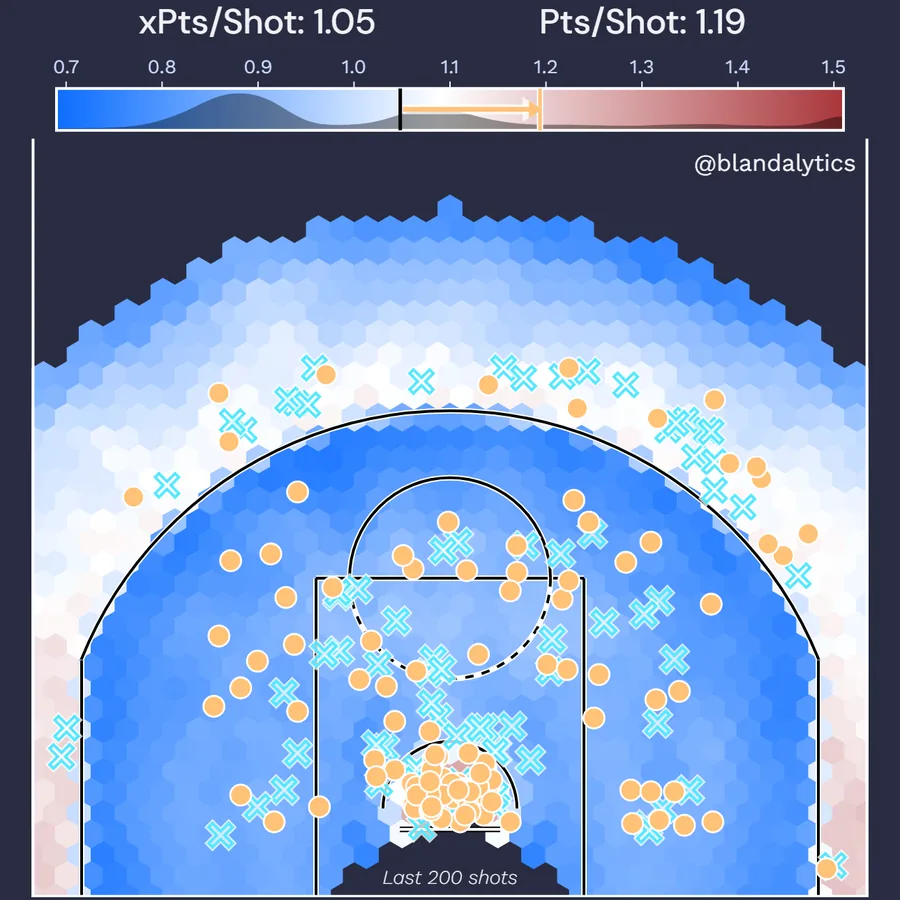
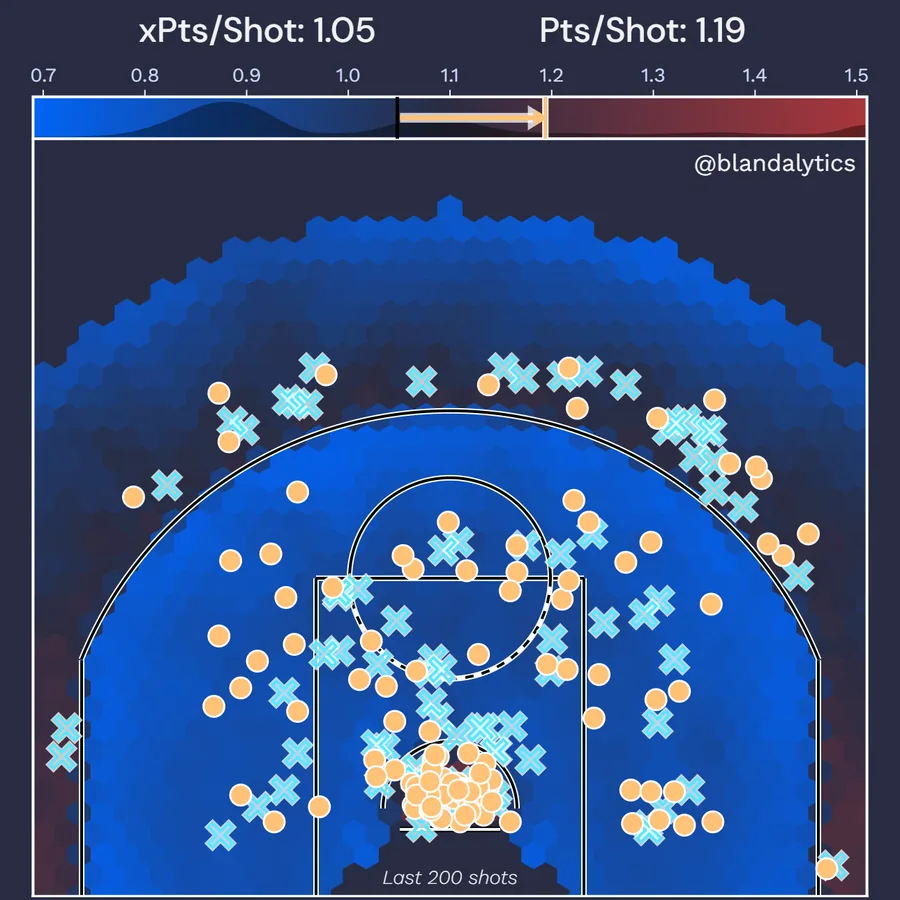
NBA Shot Charts: court scale through the background, colorbar on the sidelines, dark value tags
The xPTS scale runs from the heat cell's blue through the figure's
background (not white) at the league average to its red, on the court
and the colorbar alike. The colorbar spans sideline to sideline and sits
on the court, so its outline runs into the sidelines. The waterfall's
value tags are background-coloured boxes with the text in the bar's
colour. figure.js v2, app.js v2; the homepage tile is regrabbed (?v=2).

diff --git a/nba-shot-charts/figure.js b/nba-shot-charts/figure.js
@@ -1,7 +1,7 @@
 // NBA Shot Charts: the app's scoring summary figure (shot_summary() in nba_shot_chart.py),
 // drawn on a canvas in the figure's own 1400 x 800 layout (the app's 14 x 8 in at 100 dpi),
 // in PLPD colours: amber where a player added points, cyan where they gave some back, the
-// xPTS court in the heat cell's blue-white-red.
+// xPTS court in the heat cell's blue and red, through the figure's background at the league average.
 
 import { SEASON_SHOT_LIMIT, density } from "./model.js?v=1";
 
@@ -14,8 +14,9 @@ const C = {
 const DISPLAY = '"DM Sans", system-ui, sans-serif';
 const TEXT = '"Work Sans", system-ui, sans-serif';
 
-// PLPD heat cell, coldest to hottest, read continuously over the app's CenteredNorm(1.09, 0.42)
-const HEAT = ["#0066ff", "#5599ff", "#aaccff", "#ffffff", "#e2bcbe", "#c6797c", "#a9363b"].map(hex);
+// the PLPD heat cell's coldest and hottest, through the figure's background (not white) at the
+// midpoint, so an average spot sinks into the card; read continuously over the app's CenteredNorm(1.09, 0.42)
+const HEAT = ["#0066ff", C.bg, "#a9363b"].map(hex);
 const NORM = { lo: 1.09 - 0.42, hi: 1.09 + 0.42 };
 const BAR = { lo: 0.69, hi: 1.51 };   // the colorbar's span, cb.ax.set(xlim=(0.69, 1.51))
 
@@ -41,8 +42,8 @@ COURT.top = COURT.bottom - COURT.h;
 const cx = (x) => COURT.x0 + (x - COURT.xlim[0]) * COURT.scale;
 const cy = (y) => COURT.bottom - (y - COURT.ylim[0]) * COURT.scale;
 
-// the colorbar over the court, 94% of its width (shrink=0.94)
-const CB = { x0: COURT.x0 + COURT.w * 0.03, w: COURT.w * 0.94, top: COURT.top - 36, h: 30 };
+// the colorbar sits on the court, its ends on the sidelines (x = ±249), so its outline runs into them
+const CB = { x0: cx(-249), w: cx(249) - cx(-249), top: COURT.top - 30, h: 30 };
 const cbx = (v) => CB.x0 + ((v - BAR.lo) / (BAR.hi - BAR.lo)) * CB.w;
 
 // the waterfall: categories 0..5 across xlim (-0.6, 5.5), points 0..max * 1.25 up
@@ -293,14 +294,14 @@ function waterfall(ctx, sum) {
   text(ctx, "blandalytics.com", fx(4.1), FALL.bottom - 4, { font: `300 14px ${TEXT}`, align: "center", baseline: "bottom", color: C.nav });
 }
 
-// a value label: tone text in a white rounded box with a tone edge
+// a value label: tone text in a background-coloured rounded box with a tone edge, so it reads in the bar's colour
 function tag(ctx, s, x, y, tone, size) {
   ctx.font = `600 ${size}px ${TEXT}`;
   const w = ctx.measureText(s).width + 14, h = size + 10;
   ctx.beginPath();
   ctx.roundRect(x - w / 2, y - h / 2, w, h, 6);
-  ctx.fillStyle = "#ffffff"; ctx.fill();
+  ctx.fillStyle = C.bg; ctx.fill();
   ctx.strokeStyle = tone; ctx.lineWidth = 1.5; ctx.stroke();
-  text(ctx, s, x, y + 0.5, { font: `600 ${size}px ${TEXT}`, align: "center", color: tone === C.amber ? "#8a5a12" : "#00708a" });
+  text(ctx, s, x, y + 0.5, { font: `600 ${size}px ${TEXT}`, align: "center", color: tone });
 }
 

diff --git a/index.html b/index.html
@@ -284,7 +284,7 @@
 								<div class="tiles">
 									<article class="style2">
 									<span class="image">
-										<img src="images/tile-nba-shot-charts.webp?v=1" srcset="images/tile-nba-shot-charts-720.webp?v=1 720w, images/tile-nba-shot-charts.webp?v=1 900w" sizes="(max-width: 480px) 100vw, (max-width: 980px) 50vw, 380px" width="900" height="900" alt="NBA shot chart: makes and misses over a court shaded by expected points per shot" />
+										<img src="images/tile-nba-shot-charts.webp?v=2" srcset="images/tile-nba-shot-charts-720.webp?v=2 720w, images/tile-nba-shot-charts.webp?v=2 900w" sizes="(max-width: 480px) 100vw, (max-width: 980px) 50vw, 380px" width="900" height="900" alt="NBA shot chart: makes and misses over a court shaded by expected points per shot" />
 									</span>
 									<a href="/nba-shot-charts/">
 										<h2>NBA Shot Charts</h2>

diff --git a/nba-shot-charts/app.js b/nba-shot-charts/app.js
@@ -5,7 +5,7 @@
 // A chart is linkable as #<season>/<player id>/<game id | season>.
 
 import { prepare, defaultPick, summary, seasonBoard, gameBoard, valueAdded, teamMinutes } from "./model.js?v=1";
-import { draw } from "./figure.js?v=1";
+import { draw } from "./figure.js?v=2";
 import { drawScatter } from "./scatter.js?v=1";
 
 const params = new URLSearchParams(location.search);

diff --git a/nba-shot-charts/index.html b/nba-shot-charts/index.html
@@ -195,6 +195,6 @@ p{text-wrap:pretty}
   </section>
 </div>
 <script src="/shared/share-image.js?v=2"></script>
-<script type="module" src="app.js?v=1"></script>
+<script type="module" src="app.js?v=2"></script>
 </body>
 </html>
